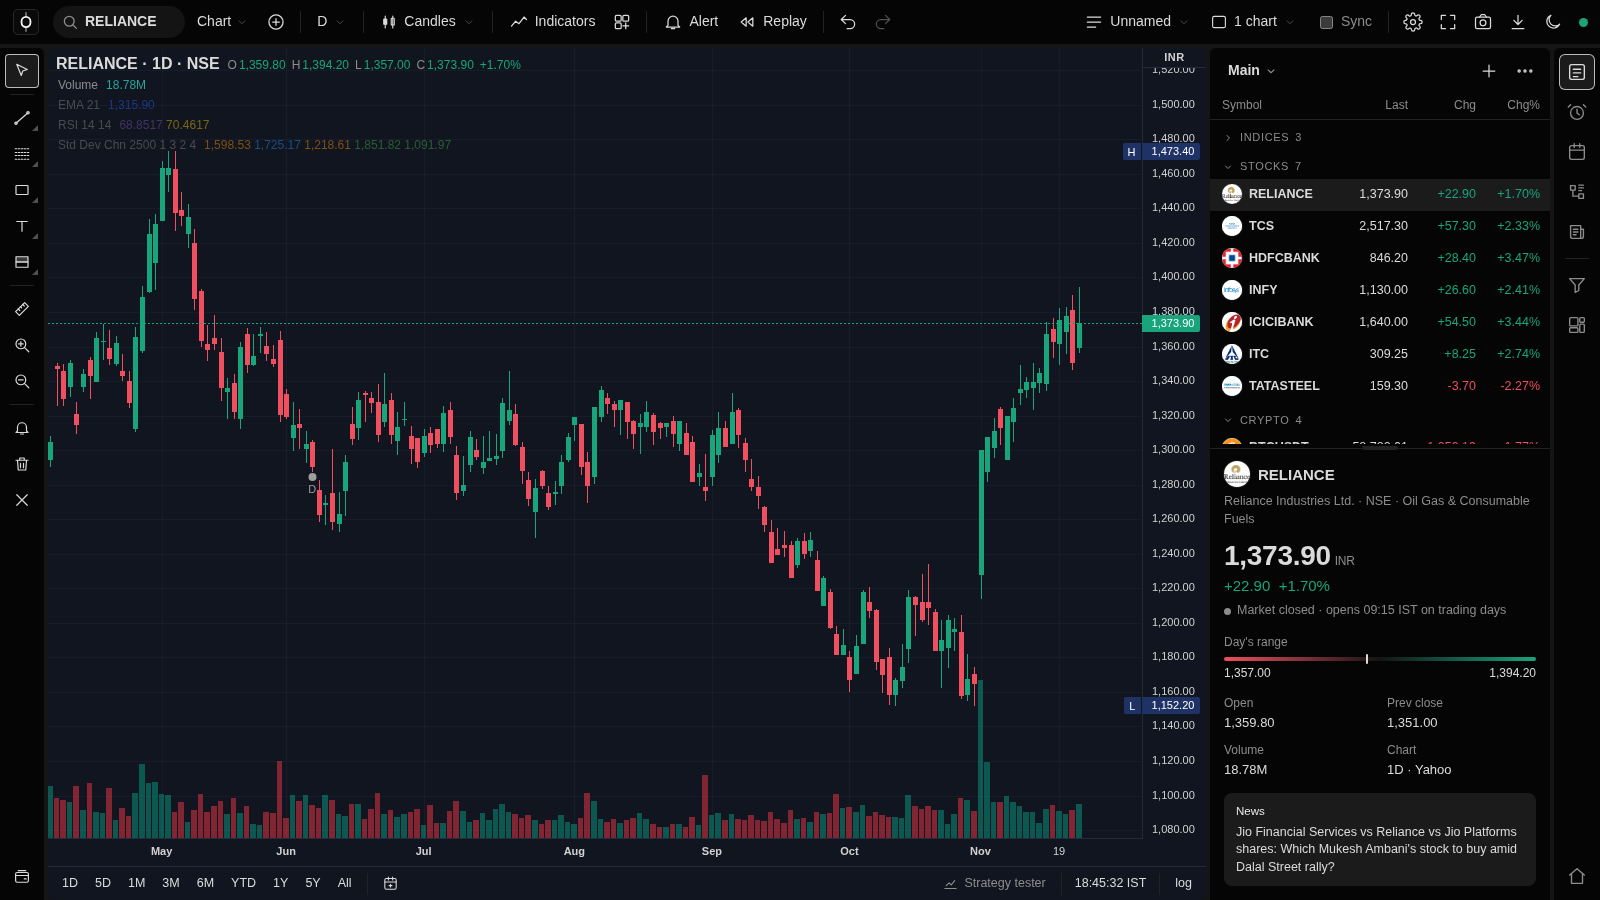
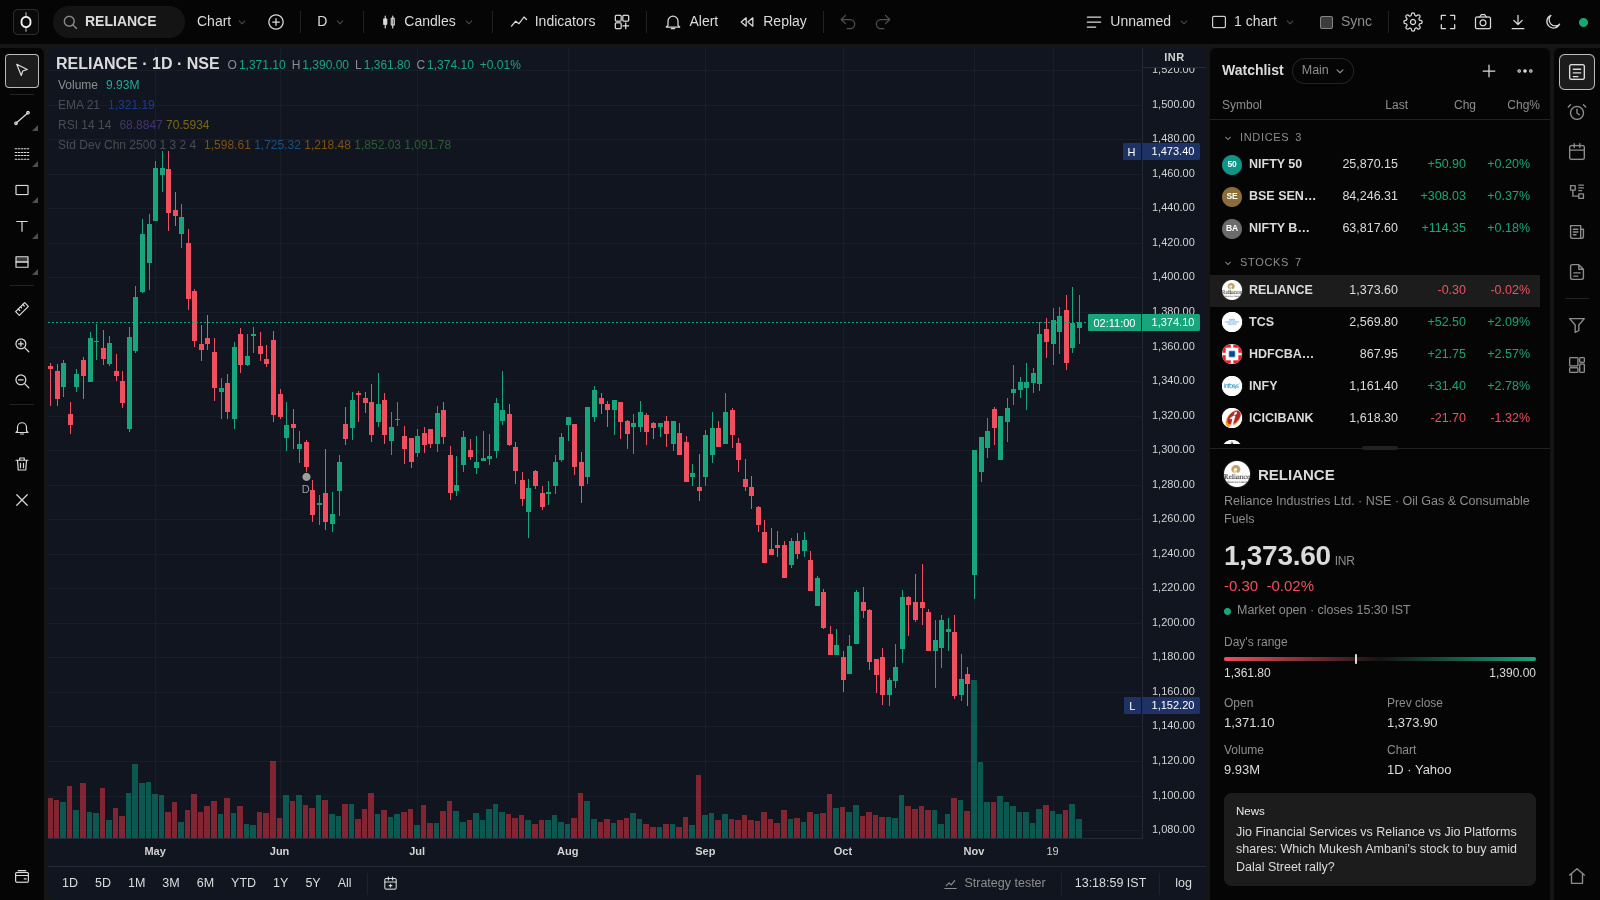
OpenWick 0.2.0
README: Markets, Notes and the home watchlist, live refresh of Indian
charts, new screenshots (the current top bar, plus Markets and Notes).
CHANGELOG.md, whose section for a version becomes that release's notes.

diff --git a/README.md b/README.md
@@ -1,6 +1,6 @@
 # OpenWick
 
-A free trading terminal for Indian stocks, Indian indices and crypto that runs on your own computer: charts, 89 indicators, 25 drawing tools, alerts, a screener with alerts, a heatmap, a portfolio page, company financials, an India events calendar, Indian and crypto news, seasonals, a strategy tester with quant checks, bar replay and paper trading. No account, no subscription, no ads, no limit on indicators per chart.
+A free trading terminal for Indian stocks, Indian indices and crypto that runs on your own computer: charts, 89 indicators, 25 drawing tools, alerts, a screener with alerts, a heatmap, market movers and breadth for every index, trading notes, a portfolio page, company financials, an India events calendar, Indian and crypto news, seasonals, a strategy tester with quant checks, bar replay and paper trading. No account, no subscription, no ads, no limit on indicators per chart.
 
 It's one small Node.js app with no dependencies. Your watchlists, drawings, alerts and paper account are plain files in a data folder on your machine.
 
@@ -14,6 +14,8 @@ Created by **Sourav Chakraborty**. Open source under the MIT licence.
 | **Technical ratings**: oscillators and moving averages, on any timeframe | **Company pages**: price, key stats, technicals, financials, seasonals |
 | ![Screener](docs/screenshots/screener.png) | ![Heatmap](docs/screenshots/heatmap.png) |
 | **Screener**: NIFTY 500, indices and crypto, with ready-made screens | **Heatmap**: every NIFTY 500 company by industry and size |
+| ![Markets](docs/screenshots/markets.png) | ![Notes](docs/screenshots/notes.png) |
+| **Markets**: today's gainers, losers and sectors, and breadth for every index | **Notes**: trade plans with risk and reward, investment theses and a journal |
 
 ## Install
 
@@ -86,7 +88,7 @@ Prefer to read a script before running it? Download [`install.sh`](install.sh) o
 | Chart details | Countdown to the bar's close on the price scale (NSE hours for Indian symbols), dividend (D) and split (S) markers, dashed lines where each day starts on intraday charts, and NSE trading hours shaded on intraday crypto and forex charts. Each can be switched off in Settings. Reset chart view with the button or Alt+R |
 | Saved layouts | Save whole setups (how many charts, and each chart's symbol, interval, type and indicators) under a name, such as "Intraday NIFTY" or "Crypto 4 charts", and switch between them from the top bar. The layout in use saves itself after every change; Ctrl+S saves it (and asks for a name the first time) |
 | Chart templates | Save a chart's type, log scale and indicators with their settings (and, if you like, its timeframe) under a name, and apply it to any other chart |
-| Watchlists | Several lists, grouped by kind or into your own sections, colour flags, sorting by any column, drag to reorder, import and export as a `.txt` of exchange tickers (`NSE:RELIANCE,###Banks,NSE:SBIN`). A star on every stock page, screener row and heatmap tile (right-click a tile) adds to any list |
+| Watchlists | Several lists, grouped by kind or into your own sections, colour flags, sorting by any column, drag to reorder, import and export as a `.txt` of exchange tickers (`NSE:RELIANCE,###Banks,NSE:SBIN`). The home page shows your list too, as a compact list with live prices. A star on every stock page, screener row and heatmap tile (right-click a tile) adds to any list |
 | Logos | Company logos for the NIFTY 500 (about 470 of 500) and coin logos for the top 500, in the watchlist, screener, heatmap, stock pages, portfolio and search. Downloaded once into `data/logos/` (about 6 MB) and refreshed monthly in the background, so pages don't fetch them from the internet. Sources: Financial Modeling Prep's public logo images and company websites found through Wikidata for stocks, CoinGecko for coins. Symbols without one keep a coloured letter badge. Run `node scripts/update-logos.js` to fetch again by hand |
 | Alerts | Up to 5 price or indicator conditions (all or any), or price crossing a drawn trend line, ray or horizontal line. One alert can watch a single symbol or every symbol on a watchlist. Checked every 15 seconds on your machine. Desktop pop-up, sound, and an optional Discord, Slack or Telegram webhook |
 | Screener alerts | Save a screen's filters and get an alert whenever a stock starts matching them (a new P/E-under-15 stock, a new RSI-under-30 coin). NSE screens are checked every 5 minutes while the market is open, crypto screens all day |
@@ -96,9 +98,10 @@ Prefer to read a script before running it? Download [`install.sh`](install.sh) o
 | Heatmap | Its own page (`/heatmap`): the NIFTY 500 by industry, Indian indices, the top 500 coins or the 100 most traded crypto pairs |
 | News | Its own page (`/news`): Indian market headlines (Economic Times, Mint, Business Standard, Moneycontrol), crypto headlines, or headlines for one stock or coin |
 | Stock and index pages | `/symbol/RELIANCE`, `/symbol/NIFTY-50`: price and a small chart (1M to All), key stats, performance, 52-week range, technical ratings (the same meters as the chart's Technicals view, any interval), financials, seasonals, sector peers, the indices that hold the stock, and news. Index pages have technicals and seasonals too, and list their member companies with today's moves and each one's weight (share of the members' combined market cap). Search, the screener, the heatmap and the home page link here |
-| Market breadth | On the home page: NIFTY 500 stocks up, down and unchanged, stocks at 52-week highs and lows, the share above their 50- and 200-day averages, and each sector's share of rising stocks |
+| Markets | Its own page (`/markets`), from Markets in the top bar. Movers: today's gainers and losers among the NIFTY 500 or within any of 34 indices (NIFTY 50, NIFTY BANK, NIFTY IT…), every sector, broad-market and strategy index sorted by today's move, and for crypto the biggest coins, gainers and losers; every column sorts. Breadth: for any index, its stocks up, down and unchanged, stocks at 52-week highs and lows, the share above their 50- and 200-day averages and each sector's share of rising stocks, plus one table comparing every index. The home page shows the NIFTY 500 summary with links to the full lists |
+| Notes | Its own page (`/notes`, the notes icon in the top bar) and a Notes tab beside the chart. Four kinds: trade ideas (long or short, entry, stop, target, status, with risk, reward and R:R worked out), investment theses (fair value with upside, horizon, conviction), journal entries and plain notes, each with a ready-made outline to fill in. Link a note to a symbol to see how far the price has moved since you wrote it; pin, tag, search, filter by symbol or kind, and download as Markdown. Saved as you type in `data/notes.json` on your computer |
 | Portfolio | Its own page (`/portfolio`): drop in your Zerodha holdings file (Kite's holdings CSV, Console's holdings as CSV or Excel, or Console's tradebook, which gives average cost and realised profit) or type holdings in. Current value, invested, total and today's P&L, each holding's weight, your sector mix against NIFTY 50's, news on your biggest holdings, a one-click alert per stock, and a "Copy to a watchlist" button. The file is read in your browser; only symbols, quantities and average prices are kept, in `data/portfolio.json`. No login and no broker connection |
-| Pages | Home `/`, chart `/chart`, screener `/screener`, heatmap `/heatmap`, news `/news`, portfolio `/portfolio`, stock and index pages `/symbol/…` |
+| Pages | Home `/`, chart `/chart`, markets `/markets` (movers) and `/breadth`, screener `/screener`, heatmap `/heatmap`, news `/news`, portfolio `/portfolio`, notes `/notes`, stock and index pages `/symbol/…` |
 | Paper trading | A panel on the left, opened from the wallet icon at the bottom of the drawing toolbar. Market, limit and stop orders, bracket stop and target, positions and P&L |
 | India calendar | RBI policy decisions, GDP, CPI, WPI and IIP release days, F&O expiries (NIFTY weekly and the NSE and BSE monthlies, moved earlier for holidays), NSE holidays, Muhurat trading and the Budget. Worked out on your machine from the RBI's meeting schedule and NSE's holiday list, so it never rate-limits. A second view shows the week's events in other major economies |
 | Financials | NIFTY 500 companies: revenue, operating and net income, EPS, margins, balance sheet, free cash flow and dividends as yearly (Indian financial years) and quarterly bars with a table, in the chart's Financials view and on the stock page. Coins: market cap, supply, volume and all-time high |
@@ -113,7 +116,7 @@ All free and public, with automatic fallbacks:
 
 | Market | Sources | Limits |
 |---|---|---|
-| Indian stocks (NSE, BSE) | Yahoo (type `RELIANCE` or `NSE:TCS`; `RELIANCE.BO` for the BSE listing) | Delayed. Up to 20 years of daily history, loaded 240 bars first and the rest behind it so charts open quickly on a slow connection |
+| Indian stocks (NSE, BSE) | Yahoo (type `RELIANCE` or `NSE:TCS`; `RELIANCE.BO` for the BSE listing) | Delayed. While NSE is open, charts refresh every 2.5 seconds and build the current candle from minute data, so intraday charts move with the market. Up to 20 years of daily history, loaded 240 bars first and the rest behind it so charts open quickly on a slow connection |
 | Indian indices | Yahoo (type `NIFTY`, `BANKNIFTY`, `SENSEX`, `NIFTY IT`…) | Delayed. Shown by name everywhere (NIFTY 50, not ^NSEI) |
 | Company figures | Yahoo's free fundamentals, downloaded by your copy on first run (about a minute after it starts) | Refreshed automatically once a week |
 | Crypto | Binance, then its backup sources (Coinbase, Kraken and others) | Live. If Binance is blocked where you are, Coinbase and Kraken take over |

diff --git a/CHANGELOG.md b/CHANGELOG.md
@@ -1,0 +1,36 @@
+# Changelog
+
+What changed in each version of OpenWick. The section for a version is also the text of its
+release on GitHub.
+
+## v0.2.0
+
+### New
+
+- **Markets page** (`/markets`, Markets in the top bar), with two parts:
+  - **Movers:** the full lists behind the home page's panels. Shows today's gainers and losers among the NIFTY 500 or within any of 34 indices (NIFTY 50, NIFTY BANK, NIFTY IT and others). Also lists every sector, broad-market and strategy index sorted by today's move, and for crypto the biggest coins, gainers and losers. Every column sorts.
+  - **Breadth:** market breadth for any index: stocks up and down, 52-week highs and lows, the share above their 50- and 200-day averages, and sectors. Includes one table comparing every index.
+- **Notes**, beside the chart and on their own page (`/notes`, the notes icon in the top bar):
+  - Four kinds: trade ideas (entry, stop and target, with risk, reward and R:R worked out), investment theses (fair value and upside), journal entries and plain notes.
+  - A note linked to a symbol shows how far the price has moved since you wrote it.
+  - Pin, tag, search, filter and download notes as Markdown.
+  - Notes are saved as you type, on your computer.
+- **Your watchlist on the home page**, as a compact list with live prices that folds after nine symbols.
+
+### Better
+
+- **Live stock charts:** while NSE is open, Indian stock and index charts refresh every 2.5 seconds, and the current candle is built from minute data.
+- **Top bar:** the chart button is now called Charts, Movers and Breadth share one Markets link, and Notes is an icon beside light/dark.
+- **Dialogs:** confirmations, names and messages open in the app's own dialog instead of the browser's "localhost says" boxes. Deletes get a red button.
+- **Dropdowns:** select boxes and the app's menus now share one design in both themes. Long choices end in "…".
+- **Tables:** the Markets and Breadth tables fit the window, shortening long names and hiding the least important columns on smaller screens.
+- **Watchlist panel:** the chart's side panel is labelled Watchlist, with the list name beside it.
+
+### Fixed
+
+- **Candles:** 5-minute and other intraday candles could show as thin lines that jumped forward during market hours until the page was reloaded.
+- **Holidays:** charts no longer refresh at the fast market-hours rate on NSE holidays.
+
+## v0.1.0
+
+The first release.
